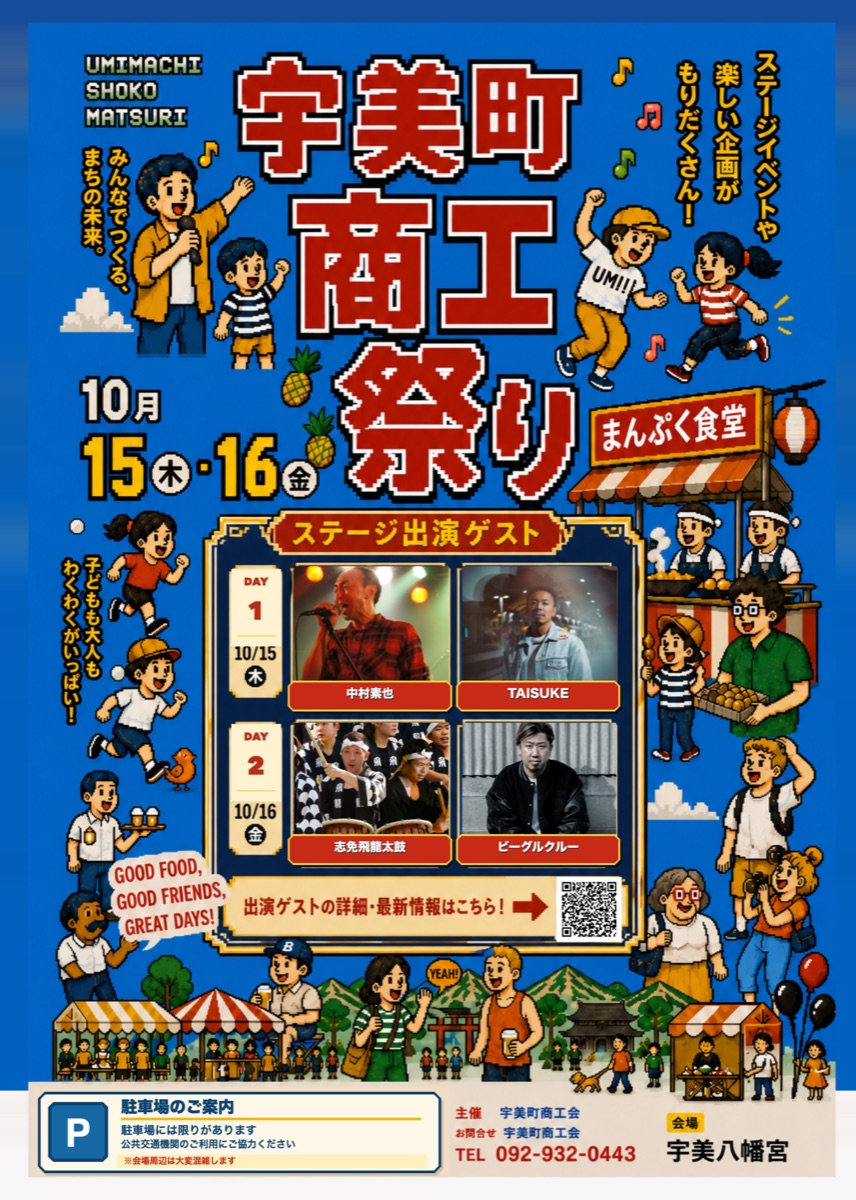
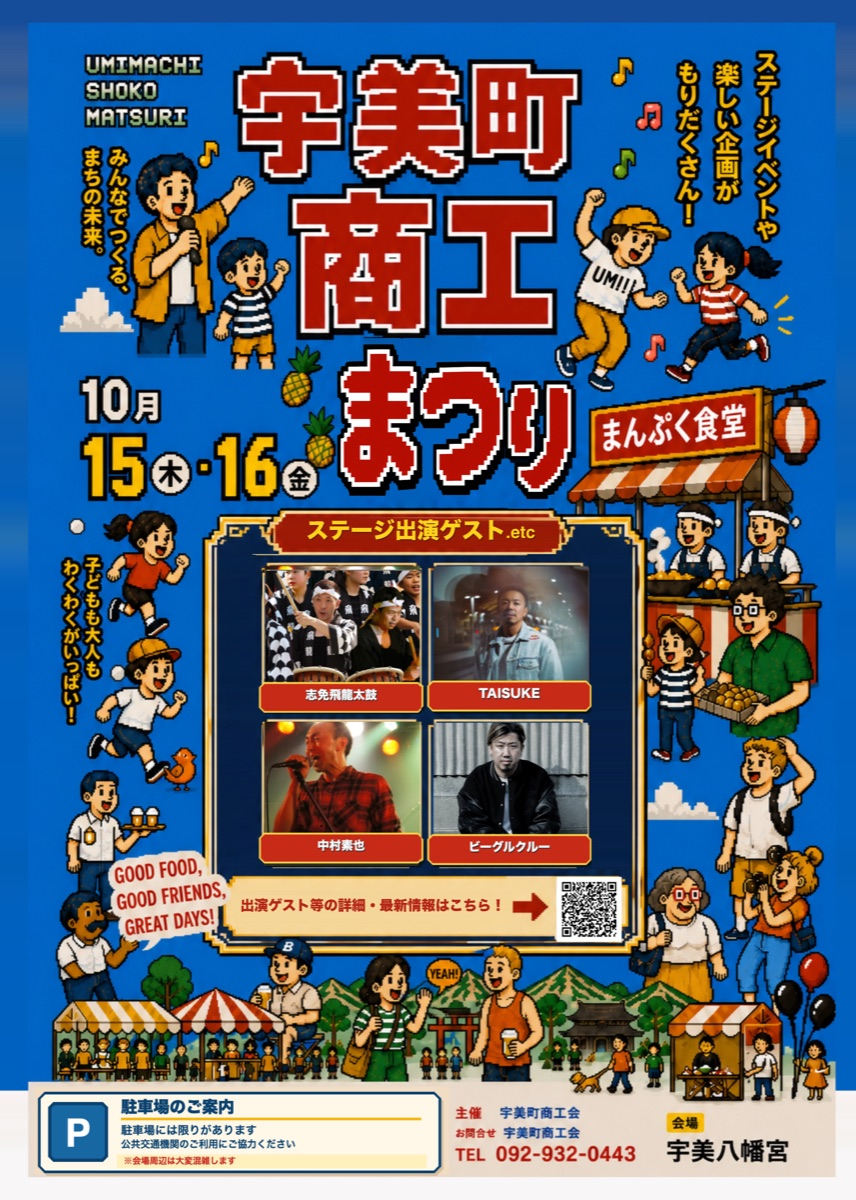
ポスター画像を8bitタイトル修正版に差し替え、確定タイムテーブルを反映
- images/poster.jpg / ogp.jpg を最新ポスター（8bitタイトル修正版）に更新
- 志免飛龍太鼓を10.16→10.15 16:30に修正
- KANAME（10.15 19:50）・SUEGLRL's（10.16 20:00）を追加（写真なし）
- TAISUKE 20:15 / 中村素也 20:30 / ビーグルクルー 20:15〜20:45 で出演時間を確定
- タイムテーブルを両日とも実データで記載

Claude-Session: https://claude.ai/code/session_01Vys6Y4S5Fr4juHTpmU3ogR

Changed region(s): [[0.243, 0.2775, 0.729, 0.7708]]

diff --git a/index.html b/index.html
@@ -538,7 +538,7 @@
     <div class="hero-poster-wrap">
       <a class="hero-poster" href="images/poster.jpg" target="_blank" rel="noopener" aria-label="公式ポスターを拡大表示">
         <span class="tag pixel">公式ポスター</span>
-        <img src="images/poster.jpg" alt="宇美町商工祭り 公式ポスター。10月15日(木)・16日(金)、会場は宇美八幡宮。ステージ出演ゲストはDAY1が中村素也・TAISUKE、DAY2が志免飛龍太鼓・ビーグルクルー。まんぷく食堂の屋台やまちのみんなが楽しむイラスト" width="642" height="900" loading="eager" fetchpriority="high">
+        <img src="images/poster.jpg" alt="宇美町商工まつり 公式ポスター。10月15日(木)・16日(金)、会場は宇美八幡宮。ステージ出演ゲストは志免飛龍太鼓・TAISUKE・中村素也・ビーグルクルー。まんぷく食堂の屋台やまちのみんなが楽しむイラスト" width="642" height="900" loading="eager" fetchpriority="high">
       </a>
       <p class="hero-poster-note">タップで拡大表示 🔍</p>
     </div>
